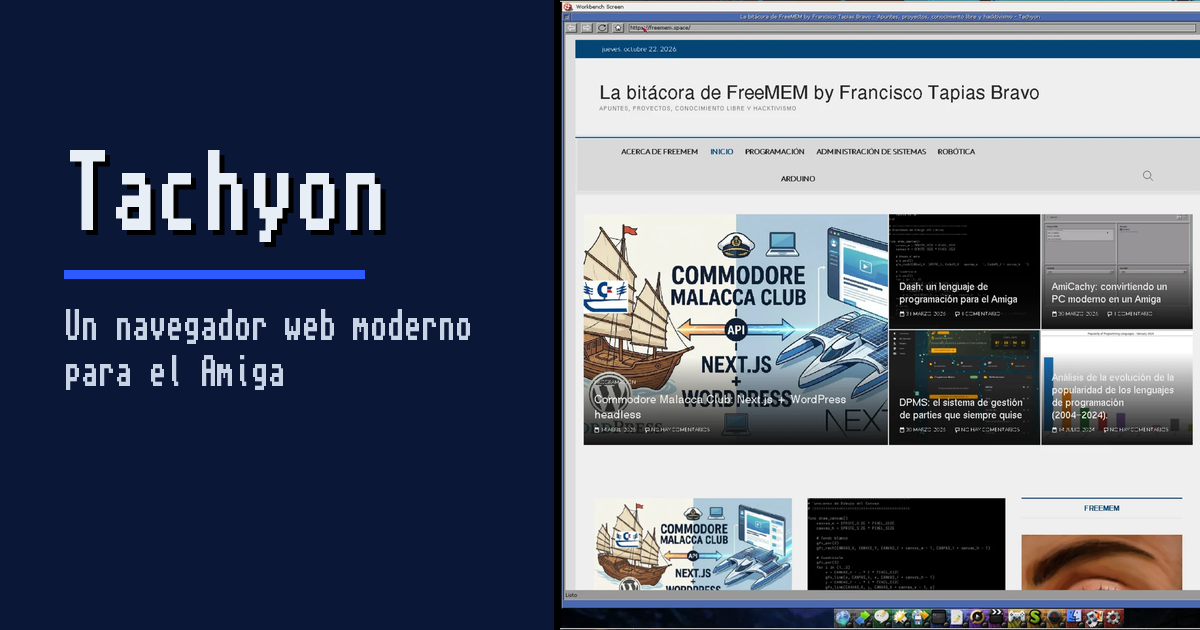
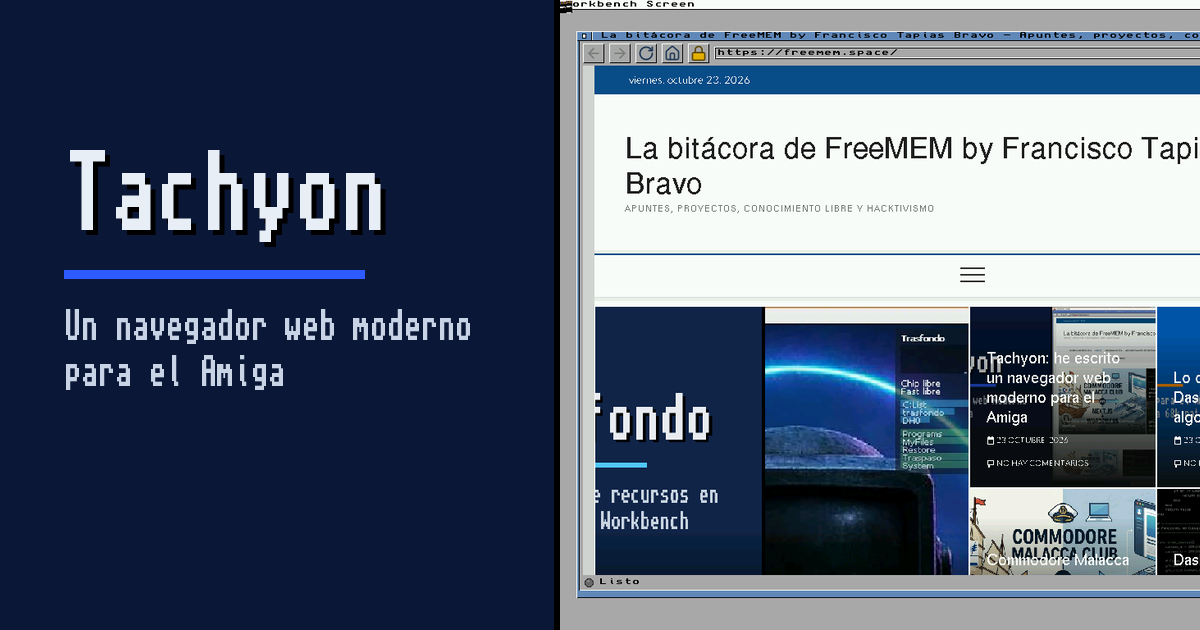
Tachyon 0.5: buscador, candado y estrella, historial, actualización sola y captura nueva; Trasfondo 0.4

diff --git a/sitios/tachyon/src/contenido.ts b/sitios/tachyon/src/contenido.ts
@@ -2,7 +2,7 @@ import { tamano, type Idioma } from "retro";
 
 import version from "./version.json";
 
-/** Los textos de la web de Tachyon. Lo que hace sale de las notas de las versiones (hasta la v0.4.0-alfa) y del README del repositorio. */
+/** Los textos de la web de Tachyon. Lo que hace sale de las notas de las versiones (hasta la v0.5.0-alfa) y del README del repositorio. */
 /** La última release (también las alfas): la pone herramientas/versiones.py antes de construir. */
 export const VERSION = version.version;
 export const REPO = "https://github.com/FreeMEM/tachyon";
@@ -22,7 +22,8 @@ export const CONTENIDO = {
     peso: `${version.fichero} · versión ${VERSION} · ${tamano(version.bytes, "es")}`,
     codigo: "El código en GitHub",
     alfa: "Es una alfa: hay páginas que no se verán bien o que tardarán.",
-    portadaAlt: "Tachyon mostrando freemem.space en el Workbench de Coffin, con Trasfondo en la esquina",
+    portadaAlt: "Tachyon mostrando freemem.space con tarjeta gráfica: el candado del HTTPS, la estrella de marcadores, el historial y el aviso verde de versión nueva",
+    coffinAlt: "Tachyon en el Workbench de Coffin, con Trasfondo en la esquina",
     motor: {
       titulo: "Lo que entiende",
       texto: "No es un visor de texto: maqueta la página como un navegador de ahora, con sus hojas de estilo, sus fuentes y su JavaScript.",
@@ -38,16 +39,16 @@ export const CONTENIDO = {
     },
     navegador: {
       titulo: "Un navegador de verdad",
-      texto: "Barra de dirección, atrás y adelante, historial, marcadores, página de inicio, hasta cuatro ventanas, descargas al disco, formularios y cookies que se guardan entre sesiones. Las páginas llegan sin congelar la ventana, y la red sigue bajando mientras la página se maqueta.",
+      texto: "La barra de dirección también busca (DuckDuckGo de serie; o Google, Bing, Brave, Wikipedia o Aminet). Un candado dice si la página llega cifrada y una estrella la guarda en marcadores. Historial por días, hasta cuatro ventanas, descargas al disco, formularios y cookies que se guardan entre sesiones. Las páginas llegan sin congelar la ventana, y la red sigue bajando mientras la página se maqueta.",
+      actualiza: "Y se pone al día solo: cuando sale una versión nueva, se enciende un icono verde; un clic la baja, comprueba que llegó entera y la instala.",
       amigaworld: "amigaworld.net en Tachyon",
-      articulo: "Un artículo de freemem.space con su foto",
     },
     alfaSeccion: {
       titulo: "Lo que aún no hace",
       texto: "Es una alfa. Para que nadie se lleve sorpresas:",
       lista: [
         "Las páginas grandes (Wikipedia, periódicos) tardan en un Amiga lento: decenas de segundos en maquetarse.",
-        "Algunos scripts de webs grandes fallan al cargar; la página sale igual.",
+        "Google enseña primero su aviso de cookies.",
         "YouTube todavía no se ve dentro del navegador.",
         "No se ha medido en hardware real: las pruebas son en emulador (FS-UAE y Amiberry).",
       ],
@@ -61,12 +62,12 @@ export const CONTENIDO = {
         "Memoria Fast: decenas de megas para las webs de hoy.",
         "MUI 3.8 o 5, una pila TCP/IP (Roadshow, AmiTCP, Genesis, Miami) y AmiSSL 5.1 o posterior.",
       ],
-      instalar: `Descomprime ${version.fichero} y haz doble clic en Instalar, o copia el cajón Tachyon donde quieras.`,
+      instalar: `Descomprime ${version.fichero} y haz doble clic en Instalar, o copia el cajón Tachyon donde quieras. Si ya lo tenías, respeta tus marcadores, preferencias y cookies.`,
       notas: "Notas de la versión",
     },
     dash: {
       titulo: "Hecho en Dash",
-      texto: "Tachyon está escrito en Dash, un lenguaje para el Amiga que compila a 68k: más de 28.000 líneas. Lo que el navegador ha necesitado (red, TLS, fuentes, imágenes) se ha añadido al lenguaje.",
+      texto: "Tachyon está escrito en Dash, un lenguaje para el Amiga que compila a 68k: más de 29.000 líneas. Lo que el navegador ha necesitado (red, TLS, fuentes, imágenes) se ha añadido al lenguaje.",
       enlace: "Conoce Dash",
     },
     pie: [
@@ -85,7 +86,8 @@ export const CONTENIDO = {
     peso: `${version.fichero} · version ${VERSION} · ${tamano(version.bytes, "en")}`,
     codigo: "Source on GitHub",
     alfa: "It's an alpha: some pages won't look right, or will take a while.",
-    portadaAlt: "Tachyon showing freemem.space on the Coffin Workbench, with Trasfondo in the corner",
+    portadaAlt: "Tachyon showing freemem.space with a graphics card: the HTTPS padlock, the bookmark star, history and the green new-version notice",
+    coffinAlt: "Tachyon on the Coffin Workbench, with Trasfondo in the corner",
     motor: {
       titulo: "What it understands",
       texto: "It isn't a text viewer: it lays out the page like a current browser, with its style sheets, its fonts and its JavaScript.",
@@ -101,16 +103,16 @@ export const CONTENIDO = {
     },
     navegador: {
       titulo: "A real browser",
-      texto: "Address bar, back and forward, history, bookmarks, a home page, up to four windows, downloads to disk, forms and cookies kept between sessions. Pages load without freezing the window, and downloads keep going while the page is laid out.",
+      texto: "The address bar also searches (DuckDuckGo by default; or Google, Bing, Brave, Wikipedia or Aminet). A padlock tells you whether the page arrives encrypted and a star adds it to your bookmarks. History by day, up to four windows, downloads to disk, forms and cookies kept between sessions. Pages load without freezing the window, and downloads keep going while the page is laid out.",
+      actualiza: "And it keeps itself up to date: when a new version is out, a green icon lights up; one click downloads it, checks it arrived whole and installs it.",
       amigaworld: "amigaworld.net in Tachyon",
-      articulo: "A freemem.space article with its photo",
     },
     alfaSeccion: {
       titulo: "What it doesn't do yet",
       texto: "It's an alpha. So nobody gets surprised:",
       lista: [
         "Big pages (Wikipedia, newspapers) are slow on a slow Amiga: tens of seconds to lay out.",
-        "Some scripts on big sites fail to load; the page still shows.",
+        "Google shows its cookie notice first.",
         "YouTube doesn't play inside the browser yet.",
         "It hasn't been measured on real hardware: testing is on emulators (FS-UAE and Amiberry).",
       ],
@@ -124,12 +126,12 @@ export const CONTENIDO = {
         "Fast memory: tens of megabytes for today's sites.",
         "MUI 3.8 or 5, a TCP/IP stack (Roadshow, AmiTCP, Genesis, Miami) and AmiSSL 5.1 or later.",
       ],
-      instalar: `Unpack ${version.fichero} and double-click Instalar (the installer), or copy the Tachyon drawer anywhere you like.`,
+      instalar: `Unpack ${version.fichero} and double-click Instalar (the installer), or copy the Tachyon drawer anywhere you like. If you already had it, your bookmarks, settings and cookies are kept.`,
       notas: "Release notes",
     },
     dash: {
       titulo: "Made in Dash",
-      texto: "Tachyon is written in Dash, an Amiga language that compiles to 68k: over 28,000 lines. Whatever the browser needed (networking, TLS, fonts, images) was added to the language.",
+      texto: "Tachyon is written in Dash, an Amiga language that compiles to 68k: over 29,000 lines. Whatever the browser needed (networking, TLS, fonts, images) was added to the language.",
       enlace: "Meet Dash",
     },
     pie: [

diff --git a/sitios/dash/src/contenido.ts b/sitios/dash/src/contenido.ts
@@ -78,7 +78,7 @@ export const CONTENIDO = {
     hecho: {
       titulo: "Hecho con Dash",
       texto: "Dash crece con programas de verdad: lo que les falta se añade al lenguaje, y luego lo tiene cualquiera.",
-      tachyon: ["Tachyon", "Un navegador web para AmigaOS 3.x: HTML5, CSS moderno, JavaScript ES2023 y HTTPS. Más de 28.000 líneas de Dash. En alfa."],
+      tachyon: ["Tachyon", "Un navegador web para AmigaOS 3.x: HTML5, CSS moderno, JavaScript ES2023 y HTTPS. Más de 29.000 líneas de Dash. En alfa."],
       trasfondo: ["Trasfondo", "Un monitor de recursos pintado en el fondo del Workbench. Unas 800 líneas de Dash, con su configurador, sin C a mano."],
       tachyonAlt: "Tachyon mostrando un artículo de freemem.space en AmigaOS",
       trasfondoAlt: "El panel de Trasfondo en el escritorio de Coffin",
@@ -142,7 +142,7 @@ export const CONTENIDO = {
     hecho: {
       titulo: "Made with Dash",
       texto: "Dash grows with real programs: whatever they lack is added to the language, and then everyone has it.",
-      tachyon: ["Tachyon", "A web browser for AmigaOS 3.x: HTML5, modern CSS, JavaScript ES2023 and HTTPS. Over 28,000 lines of Dash. In alpha."],
+      tachyon: ["Tachyon", "A web browser for AmigaOS 3.x: HTML5, modern CSS, JavaScript ES2023 and HTTPS. Over 29,000 lines of Dash. In alpha."],
       trasfondo: ["Trasfondo", "A resource monitor painted on the Workbench backdrop. About 800 lines of Dash, settings window included, no hand-written C."],
       tachyonAlt: "Tachyon showing a freemem.space article on AmigaOS",
       trasfondoAlt: "The Trasfondo panel on the Coffin desktop",

diff --git a/sitios/tachyon/src/Inicio.tsx b/sitios/tachyon/src/Inicio.tsx
@@ -43,7 +43,7 @@ export function Inicio({ idioma }: { idioma: Idioma }) {
             <p className="aviso-alfa">{t.alfa}</p>
           </div>
           <figure className="portada-captura">
-            <img src="/imagenes/coffin-freemem.webp" width={1600} height={1207} alt={t.portadaAlt} fetchPriority="high" />
+            <img src="/imagenes/tachyon-05.webp" width={1024} height={768} alt={t.portadaAlt} fetchPriority="high" />
           </figure>
         </section>
 
@@ -64,14 +64,15 @@ export function Inicio({ idioma }: { idioma: Idioma }) {
         <section className="seccion" aria-labelledby="navegador">
           <h2 id="navegador">{t.navegador.titulo}</h2>
           <p className="medida">{t.navegador.texto}</p>
+          <p className="medida">{t.navegador.actualiza}</p>
           <div className="pareja">
             <figure>
               <img src="/imagenes/amigaworld.webp" width={1400} height={992} alt={t.navegador.amigaworld} loading="lazy" />
               <figcaption>{t.navegador.amigaworld}</figcaption>
             </figure>
             <figure>
-              <img src="/imagenes/articulo.webp" width={1400} height={1022} alt={t.navegador.articulo} loading="lazy" />
-              <figcaption>{t.navegador.articulo}</figcaption>
+              <img src="/imagenes/coffin-freemem.webp" width={1600} height={1207} alt={t.coffinAlt} loading="lazy" />
+              <figcaption>{t.coffinAlt}</figcaption>
             </figure>
           </div>
         </section>
